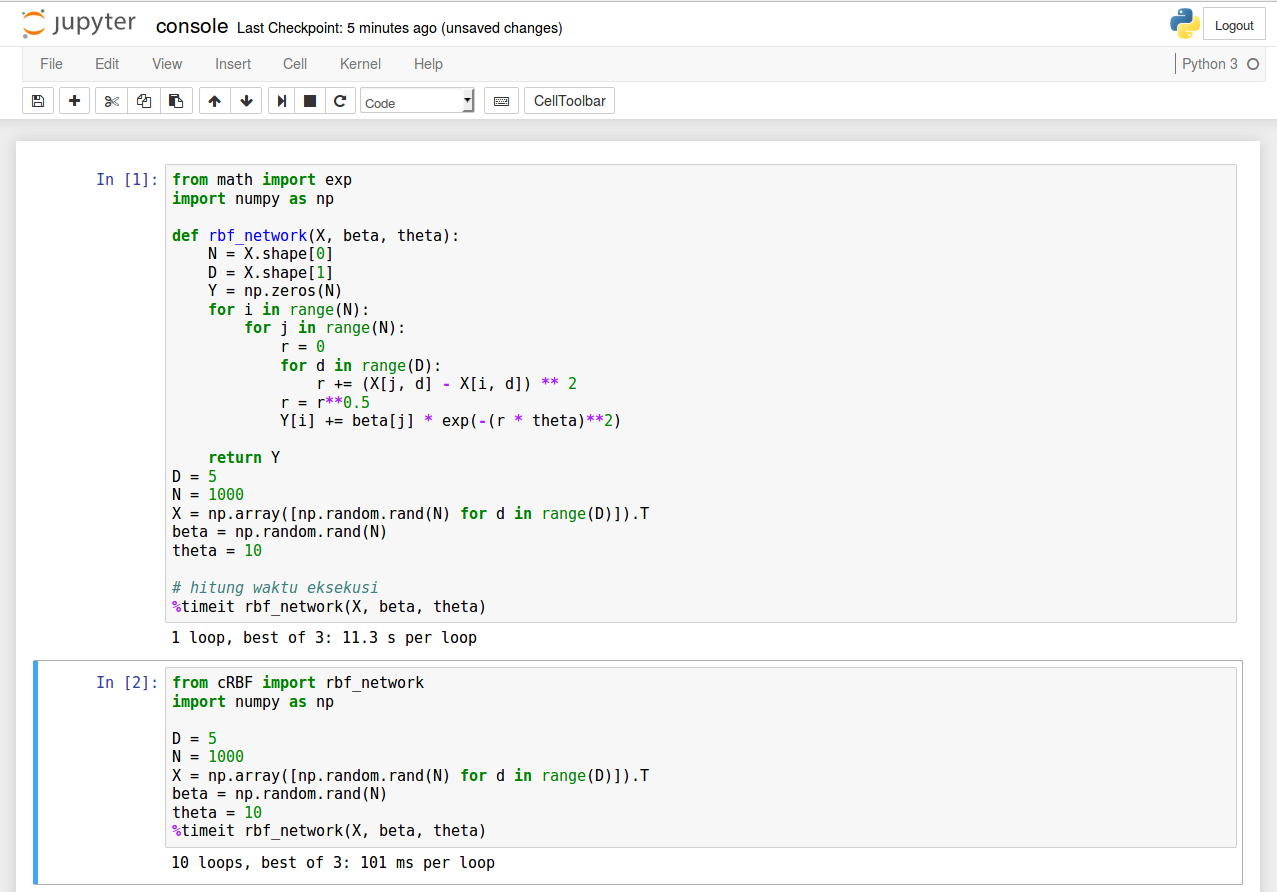
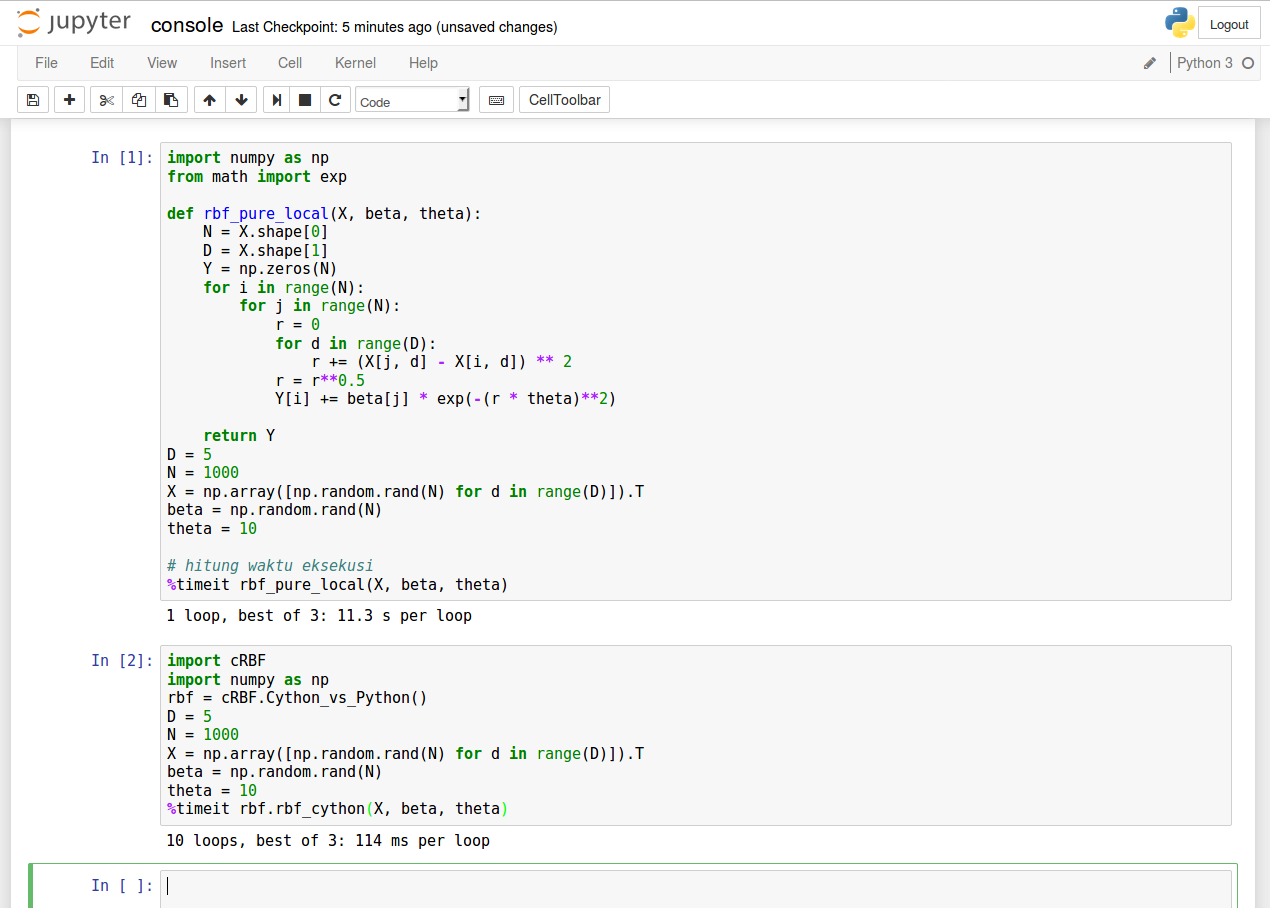
new jupy

Changed region(s): [[0.0, 0.0, 1.0, 1.0], [0.8906, 0.0, 1.0, 0.0908]]

diff --git a/README.md b/README.md
@@ -115,7 +115,7 @@ Langkah selanjutnya yaitu membandingkan waktu eksekusi dari program yang menggun
 
 ![console](https://github.com/agungdwiprasetyo/cython-vs-python/raw/master/pic/console.png)
 
-Dapat dilihat pada line pertama menggunakan pure native python yang eksekusi programnya memakan waktu selama 11.3 sekon. Sedangkan pada program yang menggunakan cython pada line kedua waktu eksekusinya jauh lebih singkat yaitu 101 milisekon. Sungguh peningkatan performa yang cukup signifikan.
+Dapat dilihat pada line pertama menggunakan pure native python yang eksekusi programnya memakan waktu selama 11.3 sekon. Sedangkan pada program yang menggunakan cython pada line kedua waktu eksekusinya jauh lebih singkat yaitu hanya 114 milisekon. Sungguh peningkatan performa yang cukup signifikan.
 
 ## Compare
 Akan dibandingkan kecepatan eksekusi dari program yang dijalankan dalam local function python, pure python dalam class cython, dan cython. Program dapat dilihat dalam file [cRBF.pyx](https://github.com/agungdwiprasetyo/cython-vs-python/blob/master/cRBF.pyx). Untuk memulai perbandingan, lakukan perintah di terminal seperti berikut:
